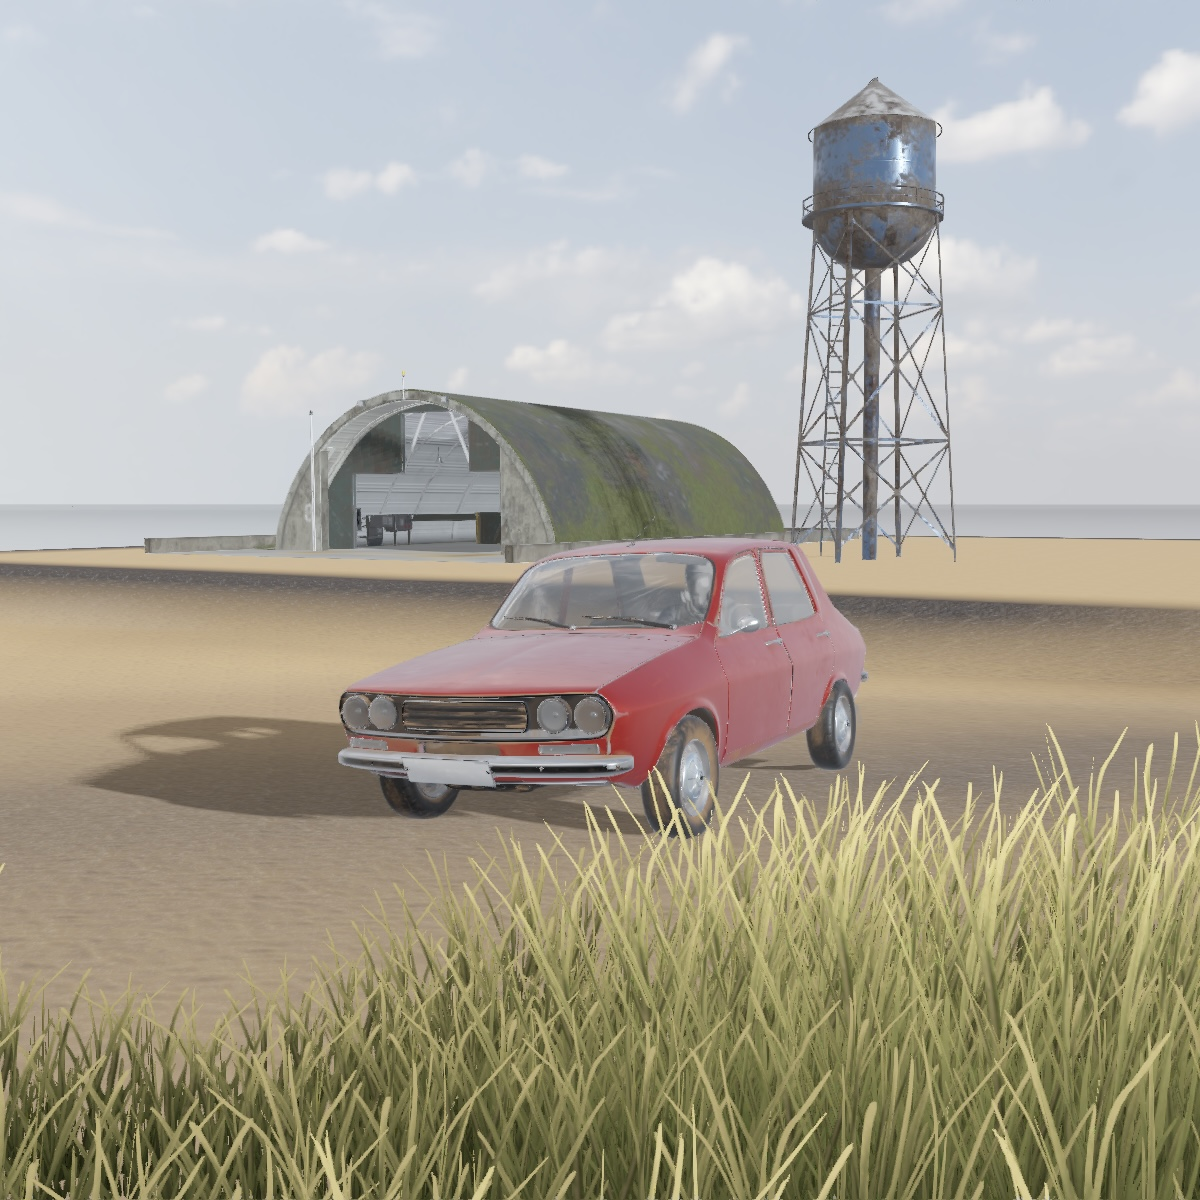
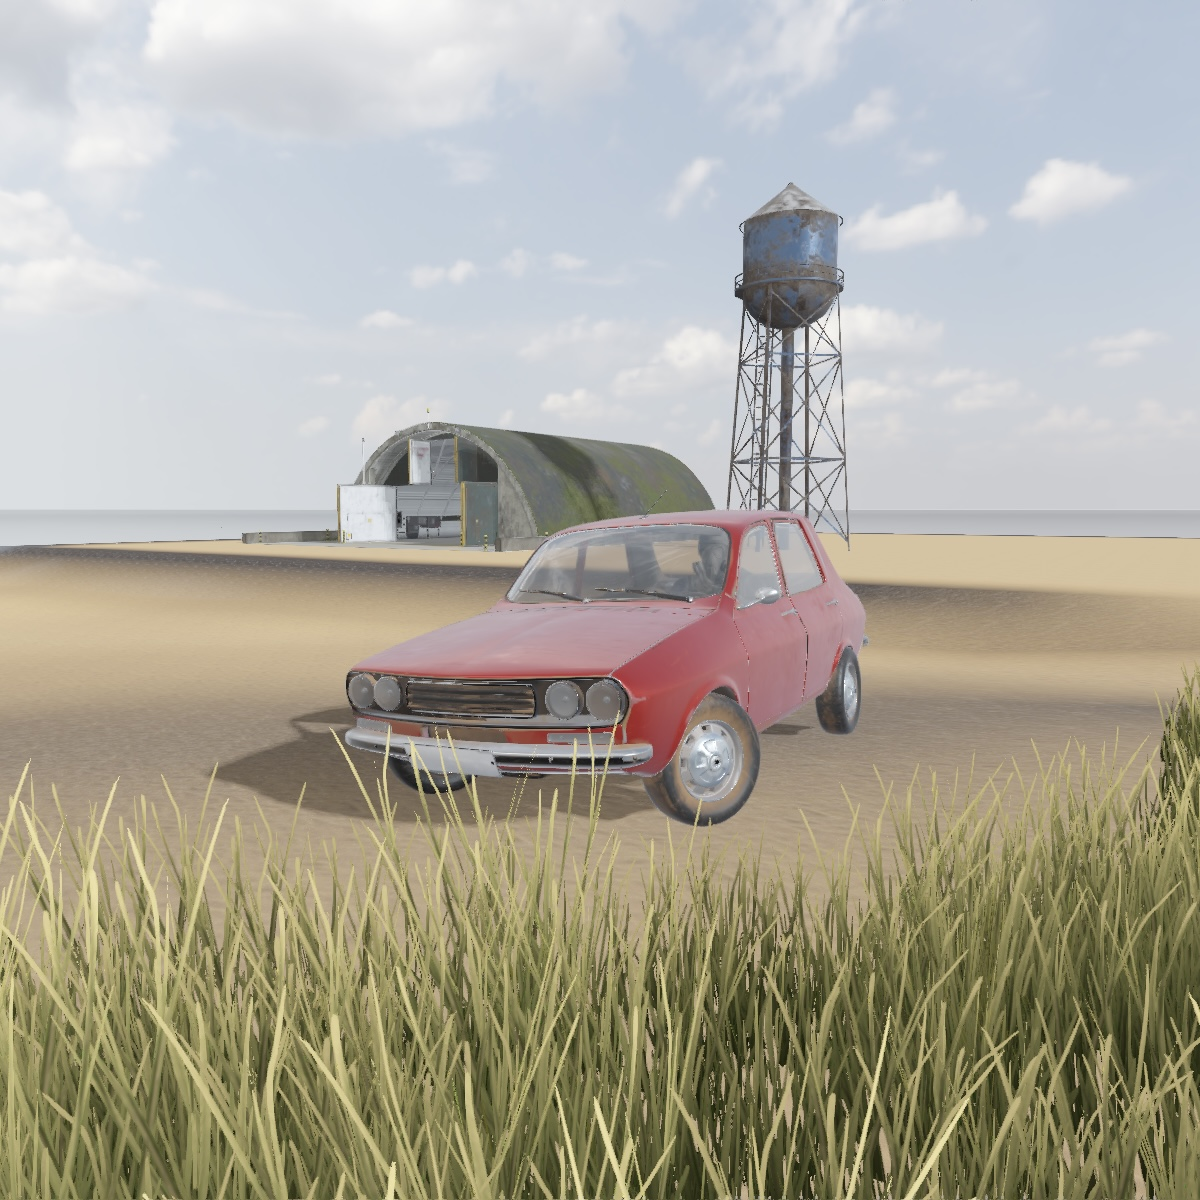
mesh: aiNode offset

diff --git a/src/car_controller/car_controller.cpp b/src/car_controller/car_controller.cpp
@@ -16,17 +16,17 @@ CarController::CarController(PhysicsWorld *physicsWorld, ResourceManager *resour
     m_exhausParticle->m_particleScale = 0.1f;
 
     // models
-    m_models.carBody = resourceManager->getModel("../src/assets/car/body.gltf");
-    m_models.carHood = resourceManager->getModel("../src/assets/car/hood.gltf");
-    m_models.carTrunk = resourceManager->getModel("../src/assets/car/trunk.gltf");
-    m_models.wheelModels[0] = m_models.carWheelFL = resourceManager->getModel("../src/assets/car/wheel-fl.gltf");
-    m_models.wheelModels[1] = m_models.carWheelFR = resourceManager->getModel("../src/assets/car/wheel-fr.gltf");
-    m_models.wheelModels[2] = m_models.carWheelRL = resourceManager->getModel("../src/assets/car/wheel-rl.gltf");
-    m_models.wheelModels[3] = m_models.carWheelRR = resourceManager->getModel("../src/assets/car/wheel-rr.gltf");
-    m_models.doorModels[0] = m_models.carDoorFL = resourceManager->getModel("../src/assets/car/door-fl.gltf");
-    m_models.doorModels[1] = m_models.carDoorFR = resourceManager->getModel("../src/assets/car/door-fr.gltf");
-    m_models.doorModels[2] = m_models.carDoorRL = resourceManager->getModel("../src/assets/car/door-rl.gltf");
-    m_models.doorModels[3] = m_models.carDoorRR = resourceManager->getModel("../src/assets/car/door-rr.gltf");
+    m_models.carBody = resourceManager->getModel("../src/assets/car/body.gltf", false);
+    m_models.carHood = resourceManager->getModel("../src/assets/car/hood.gltf", false);
+    m_models.carTrunk = resourceManager->getModel("../src/assets/car/trunk.gltf", false);
+    m_models.wheelModels[0] = m_models.carWheelFL = resourceManager->getModel("../src/assets/car/wheel-fl.gltf", false);
+    m_models.wheelModels[1] = m_models.carWheelFR = resourceManager->getModel("../src/assets/car/wheel-fr.gltf", false);
+    m_models.wheelModels[2] = m_models.carWheelRL = resourceManager->getModel("../src/assets/car/wheel-rl.gltf", false);
+    m_models.wheelModels[3] = m_models.carWheelRR = resourceManager->getModel("../src/assets/car/wheel-rr.gltf", false);
+    m_models.doorModels[0] = m_models.carDoorFL = resourceManager->getModel("../src/assets/car/door-fl.gltf", false);
+    m_models.doorModels[1] = m_models.carDoorFR = resourceManager->getModel("../src/assets/car/door-fr.gltf", false);
+    m_models.doorModels[2] = m_models.carDoorRL = resourceManager->getModel("../src/assets/car/door-rl.gltf", false);
+    m_models.doorModels[3] = m_models.carDoorRR = resourceManager->getModel("../src/assets/car/door-rr.gltf", false);
 }
 
 CarController::~CarController()
@@ -190,14 +190,12 @@ glm::mat4 CarController::getDoorModel(int i)
 }
 
 // TODO: renderer
-void CarController::render(Shader shader, glm::mat4 viewProjection, const std::string &uniformName, bool drawOpaque, bool setNormal)
+void CarController::render(Shader shader, glm::mat4 viewProjection, const std::string &uniformName, bool drawOpaque)
 {
     glm::mat4 model = m_vehicle->m_chassisModel;
     model = glm::translate(model, m_bodyOffset);
     model = model * m_carModel;
     shader.setMat4(uniformName, viewProjection * model);
-    if (setNormal)
-        shader.setMat3("normalMatrix", glm::transpose(glm::inverse(glm::mat3(model))));
     m_models.carBody->draw(shader, drawOpaque);
 
     for (int i = 0; i < 4; i++)
@@ -210,8 +208,6 @@ void CarController::render(Shader shader, glm::mat4 viewProjection, const std::s
         model = glm::rotate(model, m_rotation.z, glm::vec3(0, 0, 1));
         model = glm::scale(model, glm::vec3(m_wheelScale));
         shader.setMat4(uniformName, viewProjection * model);
-        if (setNormal)
-            shader.setMat3("normalMatrix", glm::transpose(glm::inverse(glm::mat3(model))));
         m_models.wheelModels[i]->draw(shader, drawOpaque);
     }
 
@@ -220,8 +216,6 @@ void CarController::render(Shader shader, glm::mat4 viewProjection, const std::s
     model = glm::translate(model, m_hoodOffset);
     model = model * m_carModel;
     shader.setMat4(uniformName, viewProjection * model);
-    if (setNormal)
-        shader.setMat3("normalMatrix", glm::transpose(glm::inverse(glm::mat3(model))));
     m_models.carHood->draw(shader, drawOpaque);
 
     // trunk
@@ -229,16 +223,12 @@ void CarController::render(Shader shader, glm::mat4 viewProjection, const std::s
     model = glm::translate(model, m_trunkOffset);
     model = model * m_carModel;
     shader.setMat4(uniformName, viewProjection * model);
-    if (setNormal)
-        shader.setMat3("normalMatrix", glm::transpose(glm::inverse(glm::mat3(model))));
     m_models.carTrunk->draw(shader, drawOpaque);
 
     // doors
     for (int i = 0; i < 4; i++)
     {
         shader.setMat4(uniformName, viewProjection * m_doorModels[i]);
-        if (setNormal)
-            shader.setMat3("normalMatrix", glm::transpose(glm::inverse(glm::mat3(m_doorModels[i]))));
         m_models.doorModels[i]->draw(shader, drawOpaque);
     }
 }

diff --git a/src/enigine.cpp b/src/enigine.cpp
@@ -154,8 +154,8 @@ int main(int argc, char **argv)
     Model &stone = *resourceManager.getModel("../src/assets/terrain/stone.obj");
     Model &pistol = *resourceManager.getModel("../src/assets/gltf/colt3.glb");
 
-    Model &shelter = *resourceManager.getModel("../src/assets/gltf/shelter.glb");
-    Model &tower = *resourceManager.getModel("../src/assets/gltf/old-water-tower.glb");
+    Model &shelter = *resourceManager.getModel("../src/assets/gltf/shelter1.glb");
+    Model &tower = *resourceManager.getModel("../src/assets/gltf/old-water-tower.glb", false);
 
     // Camera
     Camera editorCamera(glm::vec3(10.0f, 3.0f, 10.0f), glm::vec3(0.0f, 1.0f, 0.0f));
@@ -524,21 +524,18 @@ int main(int argc, char **argv)
 
             // draw pistol
             pbrShader.setMat4("model", character.m_pistolModel);
-            pbrShader.setMat3("normalMatrix", glm::transpose(glm::inverse(glm::mat3(character.m_pistolModel))));
             pbrShader.setBool("mergedPBRTextures", true);
             pistol.draw(pbrShader);
 
             // draw vehicle
-            car.render(pbrShader, glm::mat4(1), "model", true, true);
+            car.render(pbrShader, glm::mat4(1), "model", true);
 
             model = tempUI.m_shelterTransform.m_model;
             pbrShader.setMat4("model", model);
-            pbrShader.setMat3("normalMatrix", glm::transpose(glm::inverse(glm::mat3(model))));
             shelter.draw(pbrShader);
 
             model = tempUI.m_towerTransform.m_model;
             pbrShader.setMat4("model", model);
-            pbrShader.setMat3("normalMatrix", glm::transpose(glm::inverse(glm::mat3(model))));
             tower.draw(pbrShader);
         }
         glDisable(GL_CULL_FACE);
@@ -633,7 +630,7 @@ int main(int argc, char **argv)
 
             // render transmission meshes
             pbrShader.setBool("mergedPBRTextures", true);
-            car.render(pbrShader, glm::mat4(1), "model", false, true);
+            car.render(pbrShader, glm::mat4(1), "model", false);
         }
 
         // Post process

diff --git a/src/model/model.cpp b/src/model/model.cpp
@@ -1,8 +1,9 @@
 #include "model.h"
 
-Model::Model(ResourceManager *resourceManager, std::string const &path)
+Model::Model(ResourceManager *resourceManager, std::string const &path, bool useOffset)
     : m_resourceManager(resourceManager),
-      m_path(path)
+      m_path(path),
+      m_useOffset(useOffset)
 {
     m_importer = new Assimp::Importer();
 
@@ -22,19 +23,28 @@ void Model::draw(Shader shader, bool drawOpaque)
     if (drawOpaque)
     {
         for (unsigned int i = 0; i < opaqueMeshes.size(); i++)
+        {
+            shader.setMat4("u_meshOffset", opaqueMeshes[i]->offset);
             opaqueMeshes[i]->draw(shader);
+        }
     }
     else
     {
         for (unsigned int i = 0; i < transmissionMeshes.size(); i++)
+        {
+            shader.setMat4("u_meshOffset", transmissionMeshes[i]->offset);
             transmissionMeshes[i]->draw(shader);
+        }
     }
 }
 
 void Model::drawInstanced(Shader shader, int instanceCount)
 {
     for (unsigned int i = 0; i < meshes.size(); i++)
+    {
+        shader.setMat4("u_meshOffset", meshes[i]->offset);
         meshes[i]->drawInstanced(shader, instanceCount);
+    }
 }
 
 void Model::loadModel(std::string const &path)
@@ -67,8 +77,10 @@ void Model::processNode(aiNode *node)
         aiMesh *assimpMesh = m_scene->mMeshes[node->mMeshes[i]];
 
         Mesh *mesh = processMesh(assimpMesh);
-        meshes.push_back(mesh);
+        if (m_useOffset)
+            mesh->offset = AssimpToGLM::getGLMMat4(node->mTransformation);
 
+        meshes.push_back(mesh);
         if (mesh->opaque)
             opaqueMeshes.push_back(mesh);
         else

diff --git a/src/resource_manager/resource_manager.cpp b/src/resource_manager/resource_manager.cpp
@@ -19,7 +19,7 @@ ResourceManager::~ResourceManager()
     m_textures.clear();
 }
 
-Model *ResourceManager::getModel(const std::string &path)
+Model *ResourceManager::getModel(const std::string &path, bool useOffset)
 {
     // TODO: sharing same model object is safe?
     if (m_models.find(path) != m_models.end())
@@ -28,7 +28,7 @@ Model *ResourceManager::getModel(const std::string &path)
         return m_models[path];
     }
 
-    Model *model = new Model(this, path);
+    Model *model = new Model(this, path, useOffset);
     m_models[path] = model;
 
     return model;

diff --git a/src/model/model.h b/src/model/model.h
@@ -33,7 +33,7 @@ struct BoneInfo
 class Model
 {
 public:
-    Model(ResourceManager *resourceManager, std::string const &path);
+    Model(ResourceManager *resourceManager, std::string const &path, bool useOffset = true);
     ~Model();
     void draw(Shader shader, bool drawOpaque = true);
     void drawInstanced(Shader shader, int instanceCount);
@@ -43,6 +43,7 @@ public:
     std::string m_path;
     std::string directory;
     bool gammaCorrection;
+    bool m_useOffset;
 
     std::map<std::string, BoneInfo> m_boneInfoMap;
     int m_boneCounter = 0;

diff --git a/src/car_controller/car_controller.h b/src/car_controller/car_controller.h
@@ -98,7 +98,7 @@ public:
 
     void update(GLFWwindow *window, float deltaTime);
     void updateExhaust(GLFWwindow *window, float deltaTime);
-    void render(Shader shader, glm::mat4 viewProjection, const std::string &uniformName, bool drawOpaque = true, bool setNormal = false);
+    void render(Shader shader, glm::mat4 viewProjection, const std::string &uniformName, bool drawOpaque = true);
     glm::mat4 translateOffset(glm::vec3 offset);
     glm::mat4 getDoorModel(int door);
     void updateModels();

diff --git a/src/resource_manager/resource_manager.h b/src/resource_manager/resource_manager.h
@@ -18,7 +18,7 @@ public:
     std::unordered_map<std::string, Model *> m_models;
     std::unordered_map<std::string, Texture> m_textures;
 
-    Model *getModel(const std::string &path);
+    Model *getModel(const std::string &path, bool useOffset = true);
     Texture getTexture(const Model &model, const std::string &path, const std::string &typeName);
     unsigned int textureFromMemory(const aiTexture *embeddedTexture);
     unsigned int textureFromFile(const char *path, const std::string &directory);

diff --git a/src/mesh/mesh.h b/src/mesh/mesh.h
@@ -61,6 +61,7 @@ public:
     std::vector<Vertex> vertices;
     std::vector<unsigned int> indices;
     Material material;
+    glm::mat4 offset = glm::mat4(1.0f);
     bool opaque = true;
     unsigned int VAO;
     // Functions
